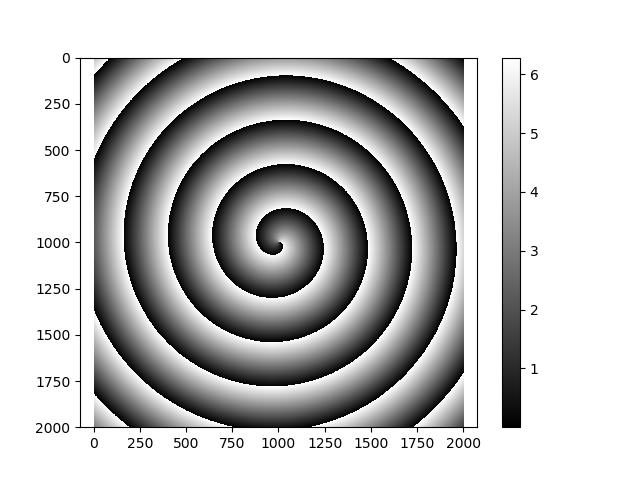
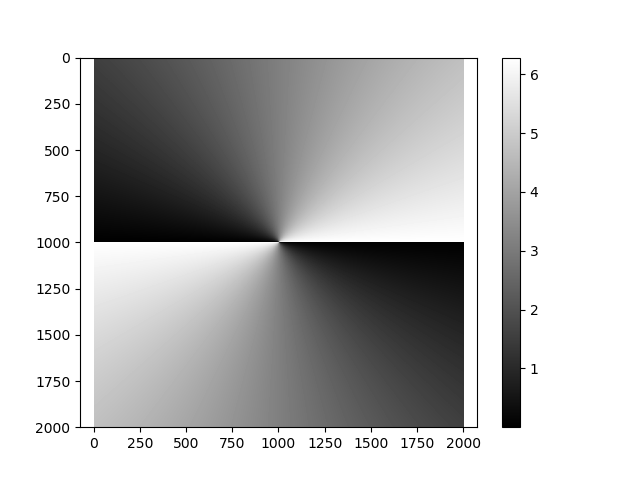
删除Holographic2.py 修改Holographic.py

diff --git a/Holographic.py b/Holographic.py
@@ -1,31 +1,40 @@
 import matplotlib.pyplot as plt
 import numpy as np
+import function
 from numba import jit
 @jit
 
-def run_Holographic(col, raw, r0, n):
+def run_Holographic(col, raw):
+	wavelength = 0.78e-6
+	f = 5e-6
+	k = 2 * np.pi / wavelength
+	n = 2
+	r0 = 1.2e-6
+	inter = 1.2e-6
 
-	x = np.linspace(-col/200, col/200, col)
-	y = np.linspace(-raw/200, raw/200, raw)
+	x = np.linspace(-5e-6, 5e-6, col)
+	y = np.linspace(-5e-6, 5e-6, raw)
+
 	[xv,yv]=np.meshgrid(x,y)
 	r = np.zeros((raw,col))
 	theta = np.zeros((raw,col))
 	Tn = np.zeros((raw,col))
 
+	r = np.sqrt(xv**2+yv**2)
 	for i in range(0,raw):
 		for j in range(0,col):
-			r[i][j] = np.sqrt(xv[i][j]**2+yv[i][j]**2)
 			theta[i][j] = np.arctan2(yv[i][j],xv[i][j])
 			if yv[i][j]<0:
-				theta[i][j] +=2*np.pi
+				theta[i][j] += 2*np.pi
 
-	for i in range(0,raw):
-		for j in range(0,col):
-			Tn[i][j] = n*theta[i][j]-2*np.pi*r[i][j]/r0
-			while Tn[i][j]<0:
-				Tn[i][j] += 2*np.pi
-			while Tn[i][j]>2*np.pi:
-				Tn[i][j] -= 2*np.pi
+	# n阶的相位板
+	Tn = function.fun1(raw, col, theta, Tn, n)
+	# 薄透镜
+	#Tn = function.fun2(raw, col, theta, r, Tn, k, f)
+    # 薄透镜+n阶的相位板
+	#Tn = function.fun3(raw, col, theta, r, Tn, n, k, f)
+	# n阶的相位板+贝塞尔
+	#Tn = function.fun4(raw, col, theta, r, Tn, n, r0)
 
 	# np.savetxt("r.dat", r, fmt='%.18e', delimiter=' ', newline='\n')
 	# np.savetxt("theta.dat", theta, fmt='%.18e', delimiter=' ', newline='\n')
@@ -34,7 +43,7 @@ def run_Holographic(col, raw, r0, n):
 	plt.axis("equal")
 	plt.imshow(Tn, cmap=plt.cm.gray) #灰度
 	plt.colorbar() 
-	plt.savefig("test2.png")
+	plt.savefig("test.png")
 	plt.show()
 
-run_Holographic(col=4000,raw=4000, r0=5, n=2)
+run_Holographic(col=2000, raw=2000)

diff --git a/function.py b/function.py
@@ -4,42 +4,31 @@ from numba import jit
 
 def fun1(raw, col, theta, Tn, n):
 	# n阶的相位板
-	for i in range(0,raw):
-		for j in range(0,col):
-			Tn[i][j] = n*theta[i][j]
-			while Tn[i][j]<0:
-				Tn[i][j] += 2*np.pi
-			while Tn[i][j]>2*np.pi:
-				Tn[i][j] -= 2*np.pi
+	Tn = n*theta
+	Tn = too(raw,col,Tn)
 	return Tn
 
 def fun2(raw, col, theta, r, Tn, k, f):
 	# 薄透镜
-	for i in range(0,raw):
-		for j in range(0,col):
-			Tn[i][j] = k*(r[i][j]**2)/2/f
-			while Tn[i][j]<0:
-				Tn[i][j] += 2*np.pi
-			while Tn[i][j]>2*np.pi:
-				Tn[i][j] -= 2*np.pi
+	Tn = k*(r**2)/2/f
+	Tn = too(raw,col,Tn)
 	return Tn
 
 def fun3(raw, col, theta, r, Tn, n, k, f):
 	# 薄透镜+n阶的相位板
-	for i in range(0,raw):
-		for j in range(0,col):
-			Tn[i][j] = n*theta[i][j] + k*(r[i][j]**2)/2/f
-			while Tn[i][j]<0:
-				Tn[i][j] += 2*np.pi
-			while Tn[i][j]>2*np.pi:
-				Tn[i][j] -= 2*np.pi
+	Tn = n*theta + k*(r**2)/2/f
+	Tn = too(raw,col,Tn)
 	return Tn
 
 def fun4(raw, col, theta, r, Tn, n, r0):
 	# n阶的相位板+贝塞尔
+	Tn = n * theta - 2*np.pi*r/r0
+	Tn = too(raw,col,Tn)
+	return Tn
+
+def too(raw,col,Tn):
 	for i in range(0,raw):
 		for j in range(0,col):
-			Tn[i][j] = n*theta[i][j] - 2*np.pi*r[i][j]/r0
 			while Tn[i][j]<0:
 				Tn[i][j] += 2*np.pi
 			while Tn[i][j]>2*np.pi:
